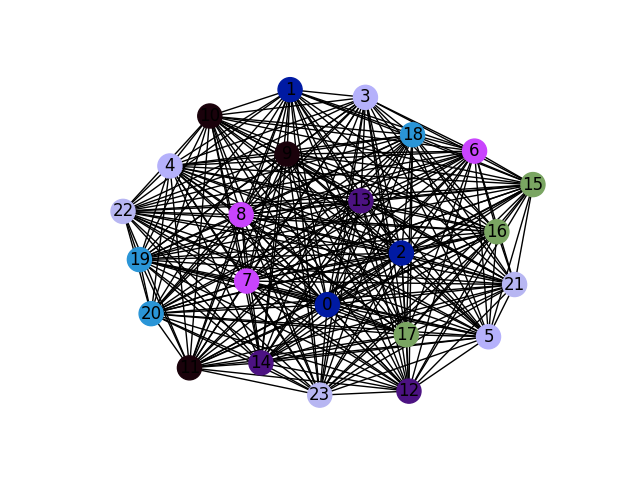
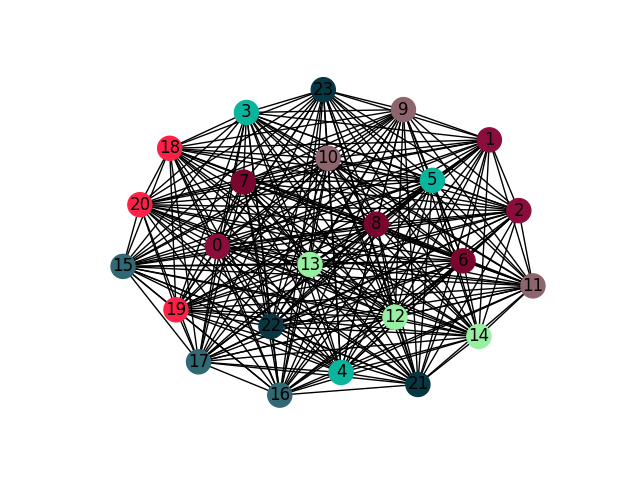
added example for objective functions

Changed region(s): [[0.1562, 0.1562, 0.875, 0.8438]]

diff --git a/graph_part.py b/graph_part.py
@@ -46,7 +46,7 @@ def ratio_cut(G, groups):
     for i in range(len(groups)):
         for j in range(i, len(groups)):
             if i != j:
-                print(cut(G, groups, i, j)/len(groups[i]), cut(G, groups, i, j)/len(groups[j]))
+                #print(cut(G, groups, i, j)/len(groups[i]), cut(G, groups, i, j)/len(groups[j]))
                 res += cut(G, groups, i, j)/len(groups[i]) + cut(G, groups, i, j)/len(groups[j])
     return res
 
@@ -55,7 +55,7 @@ def normilized_cut(G, groups):
     for i in range(len(groups)):
         for j in range(i, len(groups)):
             if i != j:
-                print(cut(G, groups, i, j)/vol(G, groups, i) + cut(G, groups, i, j)/vol(G, groups, j))
+                #print(cut(G, groups, i, j)/vol(G, groups, i) + cut(G, groups, i, j)/vol(G, groups, j))
                 res += cut(G, groups, i, j)/vol(G, groups, i) + cut(G, groups, i, j)/vol(G, groups, j)
     return res
 
@@ -64,7 +64,7 @@ def quotient_cut(G, groups):
     for i in range(len(groups)):
         for j in range(i, len(groups)):
             if i != j:
-                print(cut(G, groups, i, j)/min(vol(G, groups, i), vol(G, groups, j)), vol(G, groups, i), vol(G, groups, j))
+                #print(cut(G, groups, i, j)/min(vol(G, groups, i), vol(G, groups, j)), vol(G, groups, i), vol(G, groups, j))
                 res += cut(G, groups, i, j)/min(vol(G, groups, i), vol(G, groups, j))
     return res
 
@@ -77,7 +77,7 @@ def generate_subgraphs(topology, num_of_subgraphs):
         for i in range(num_of_subgraphs):
             nodes.append(np.argwhere(np.array(membership) == i).ravel())
             nodes[i] = [str(x) for x in nodes[i]]
-        print("SUBGRAPHS", nodes)
+        #print("SUBGRAPHS", nodes)
         return nodes
 
 def swap(G, groups):
@@ -90,28 +90,39 @@ def swap(G, groups):
     groups[j][j_b] = temp
     return groups
 
-def get_partition(G, subgraphs_num):
+def get_partition(G, subgraphs_num, objective):
     prev, iters = 0, 0
+    best_groups = []
     groups = generate_subgraphs(G, subgraphs_num)
     while iters < 200:
-        print("groups", groups)
-        obj_func = min_cut(G, groups)
-        print("RATIO", ratio_cut(G, groups))
-        print("normilized", normilized_cut(G, groups))
-        print("quotient", quotient_cut(G, groups))
-        print("OBJ FUNC", obj_func)
+        #print("groups", groups, objective)
+        if objective == 0:
+            obj_func = min_cut(G, groups)
+        if objective == 1:
+            obj_func =  ratio_cut(G, groups)
+        if objective == 2:
+            obj_func =  normilized_cut(G, groups)
+        if objective == 3:
+            obj_func = quotient_cut(G, groups)
         if iters == 0:
             prev = obj_func
-        if obj_func >= prev and iters > 10:
-            return prev
+            best_groups = groups
+        if obj_func >= prev:
+            if iters > 20:
+                return best_groups
+        else:
+            best_groups = groups
         groups = swap(G, groups)
         iters += 1
         prev  = obj_func
-    return prev
+    return groups
 
 G = nx.complete_graph(24)
 for num in [2, 4, 6, 8]:
     partitioning = nxmetis.partition(G, num)[1]
     print(num, partitioning)
     draw_graph(partitioning, "metis", "complete", num)
-print(get_partition(G, 4))
+    for i in range(4):
+        partitioning = get_partition(G, num, i)
+        print("part", i, partitioning)
+        draw_graph(partitioning, "obj_func_" + str(i), "complete", num)
